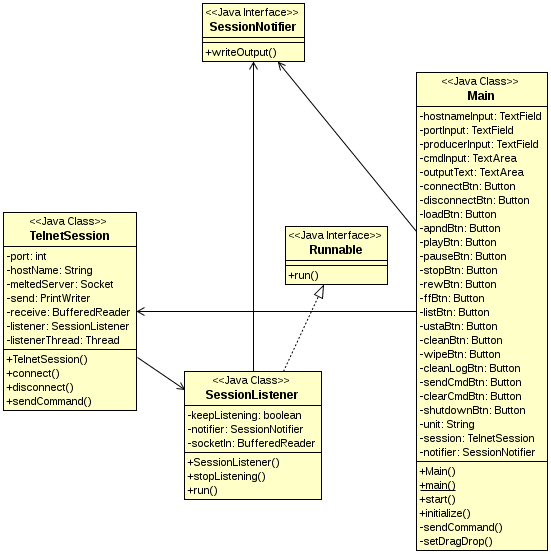
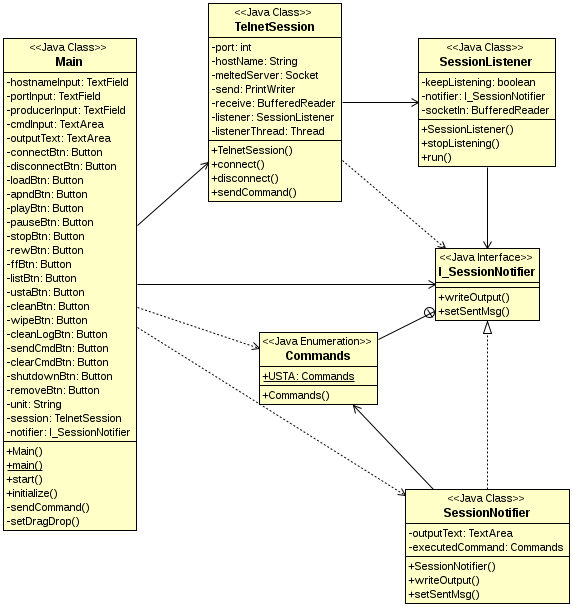
Parseo la respuesta del comando USTA Mejoras en la GUI

diff --git a/src/com/rombus/evilbones/lmg/SessionNotifier.java b/src/com/rombus/evilbones/lmg/SessionNotifier.java
@@ -1,10 +1,81 @@
 package com.rombus.evilbones.lmg;
 
+import javafx.application.Platform;
+import javafx.scene.control.TextArea;
+
 /**
  * @author rombus
  *
- * 23/07/2016 19:53:38
+ * 20/08/2016 20:51:59
  */
-public interface SessionNotifier {
-	public void writeOutput(String msg);
+public class SessionNotifier implements I_SessionNotifier{
+	private TextArea outputText;
+	private I_SessionNotifier.Commands executedCommand;
+	
+	public SessionNotifier(TextArea outputText){
+		this.outputText = outputText;
+	}
+
+	@Override
+	public void writeOutput(final String msg) {
+		Platform.runLater(new Runnable() {
+			@Override
+			public void run() {
+				// Si es un mensaje hacia melted, imprimo y salgo.
+				if(msg.contains(">>")){
+					outputText.appendText(msg+"\n");
+					return;
+				}
+				
+				// Si mandó un USTA
+				if(executedCommand == Commands.USTA){
+					// Muestro el mensaje de OK
+					if(msg.contains("OK")){
+						outputText.appendText(msg+"\n");
+					}
+					// Proceso la respuesta del USTA
+					else {
+						String []msgs = msg.split(" ");
+						
+						if(msgs.length == 17) {
+							//outputText.appendText("UNIT: "+msgs[0]+"\n");
+							outputText.appendText("\n");
+							outputText.appendText("  mode:\t\t\t"+msgs[1]+"\n");
+							outputText.appendText("  path:\t\t\t"+msgs[2]+"\n");
+							outputText.appendText("  cur frame:\t\t"+msgs[3]+"\n");
+							outputText.appendText("  speed %:\t\t"+msgs[4]+"\n");
+							outputText.appendText("  fps:\t\t\t"+msgs[5]+"\n");
+							outputText.appendText("  in-point:\t\t"+msgs[6]+"\n");
+							outputText.appendText("  out-point:\t\t"+msgs[7]+"\n");
+							outputText.appendText("  length:\t\t"+msgs[8]+"\n");
+							outputText.appendText("  tail clip name:\t"+msgs[9]+"\n");
+							outputText.appendText("  tail pos:\t\t"+msgs[10]+"\n");
+							outputText.appendText("  tail in-point:\t"+msgs[11]+"\n");
+							outputText.appendText("  tail out-point:\t"+msgs[12]+"\n");
+							outputText.appendText("  tail length:\t\t"+msgs[13]+"\n");
+							outputText.appendText("  seekable flag:\t"+msgs[14]+"\n");
+							outputText.appendText("  playlist num:\t\t"+msgs[15]+"\n");
+							outputText.appendText("  clip index:\t\t"+msgs[16]+"\n");
+							outputText.appendText("\n");
+						}
+						else{
+							outputText.appendText(msg+"\n");		
+						}
+						
+						executedCommand = null;	
+					}
+				}
+				else {
+					outputText.appendText(msg+"\n");
+					executedCommand = null;
+				}
+			}
+		});		
+	}
+
+	
+	@Override
+	public void setSentMsg(Commands cmd) {
+		this.executedCommand = cmd;
+	}
 }

diff --git a/src/com/rombus/evilbones/lmg/Main.java b/src/com/rombus/evilbones/lmg/Main.java
@@ -4,6 +4,8 @@ import java.io.IOException;
 import java.net.URL;
 import java.util.ResourceBundle;
 
+import com.rombus.evilbones.lmg.I_SessionNotifier.Commands;
+
 import javafx.application.Application;
 import javafx.application.Platform;
 import javafx.event.ActionEvent;
@@ -60,12 +62,12 @@ public class Main extends Application implements Initializable {
 	
 	private String unit = "U0"; // Default unit
 	private TelnetSession session;
-	private SessionNotifier notifier;
+	private I_SessionNotifier notifier;
 	
 	
 	//Start javafx app
 	public static void main(String[] args) {
-		launch(args);	
+		launch(args);
 	}
 	
 	@Override
@@ -90,17 +92,8 @@ public class Main extends Application implements Initializable {
 	
 	@Override
 	public void initialize(URL arg0, ResourceBundle arg1) {
-		notifier = new SessionNotifier() {
-			@Override
-			public void writeOutput(final String msg) {
-				Platform.runLater(new Runnable() {
-					@Override
-					public void run() {
-						outputText.appendText(msg+"\n");
-					}
-				});		
-			}
-		};
+		notifier = new SessionNotifier(outputText);
+		outputText.setStyle("-fx-font-family: monospace");
 		
 		setDragDrop(producerInput, true);
 		setDragDrop(cmdInput, false);		
@@ -195,6 +188,7 @@ public class Main extends Application implements Initializable {
 			@Override
 			public void handle(ActionEvent arg0) {
 				sendCommand("USTA "+unit);
+				notifier.setSentMsg(Commands.USTA);
 			}
 		});
 		
@@ -253,6 +247,7 @@ public class Main extends Application implements Initializable {
 	private void sendCommand(String command){
 		try {
 			this.session.sendCommand(command);
+			
 			notifier.writeOutput(">> "+command);
 		} catch (NullPointerException e) {
 			notifier.writeOutput("Not connected to melted!!!");

diff --git a/src/com/rombus/evilbones/lmg/TelnetSession.java b/src/com/rombus/evilbones/lmg/TelnetSession.java
@@ -25,13 +25,13 @@ public class TelnetSession {
 	private SessionListener listener;
 	private Thread listenerThread;
 	
-	public TelnetSession(String server, int port, SessionNotifier notifier) throws UnknownHostException, IOException{
+	public TelnetSession(String server, int port, I_SessionNotifier notifier) throws UnknownHostException, IOException{
 		this.port = port;
 		this.hostName = server;
 		connect(notifier);
 	}
 	
-	public void connect(SessionNotifier notifier) throws UnknownHostException, IOException{
+	public void connect(I_SessionNotifier notifier) throws UnknownHostException, IOException{
 		this.meltedServer = new Socket(this.hostName, this.port);
 		
 		this.send = new PrintWriter(meltedServer.getOutputStream(), true);

diff --git a/src/com/rombus/evilbones/lmg/SessionListener.java b/src/com/rombus/evilbones/lmg/SessionListener.java
@@ -12,10 +12,10 @@ import java.io.IOException;
  */
 public class SessionListener implements Runnable {
 	private boolean keepListening;
-	private SessionNotifier notifier;
+	private I_SessionNotifier notifier;
 	private BufferedReader socketIn;
 	
-	public SessionListener(BufferedReader socketIn, SessionNotifier notifier){
+	public SessionListener(BufferedReader socketIn, I_SessionNotifier notifier){
 		this.keepListening = true;
 		this.socketIn = socketIn;
 		this.notifier = notifier;

diff --git a/src/com/rombus/evilbones/lmg/I_SessionNotifier.java b/src/com/rombus/evilbones/lmg/I_SessionNotifier.java
@@ -1,0 +1,17 @@
+package com.rombus.evilbones.lmg;
+
+/**
+ * @author rombus
+ *
+ * 23/07/2016 19:53:38
+ */
+public interface I_SessionNotifier {
+
+	// Por ahora solo quiero diferenciar el USTA de los demás, por eso está este solo
+	public enum Commands{
+		USTA
+	}
+	
+	public void writeOutput(String msg);
+	public void setSentMsg(Commands cmd);
+}
